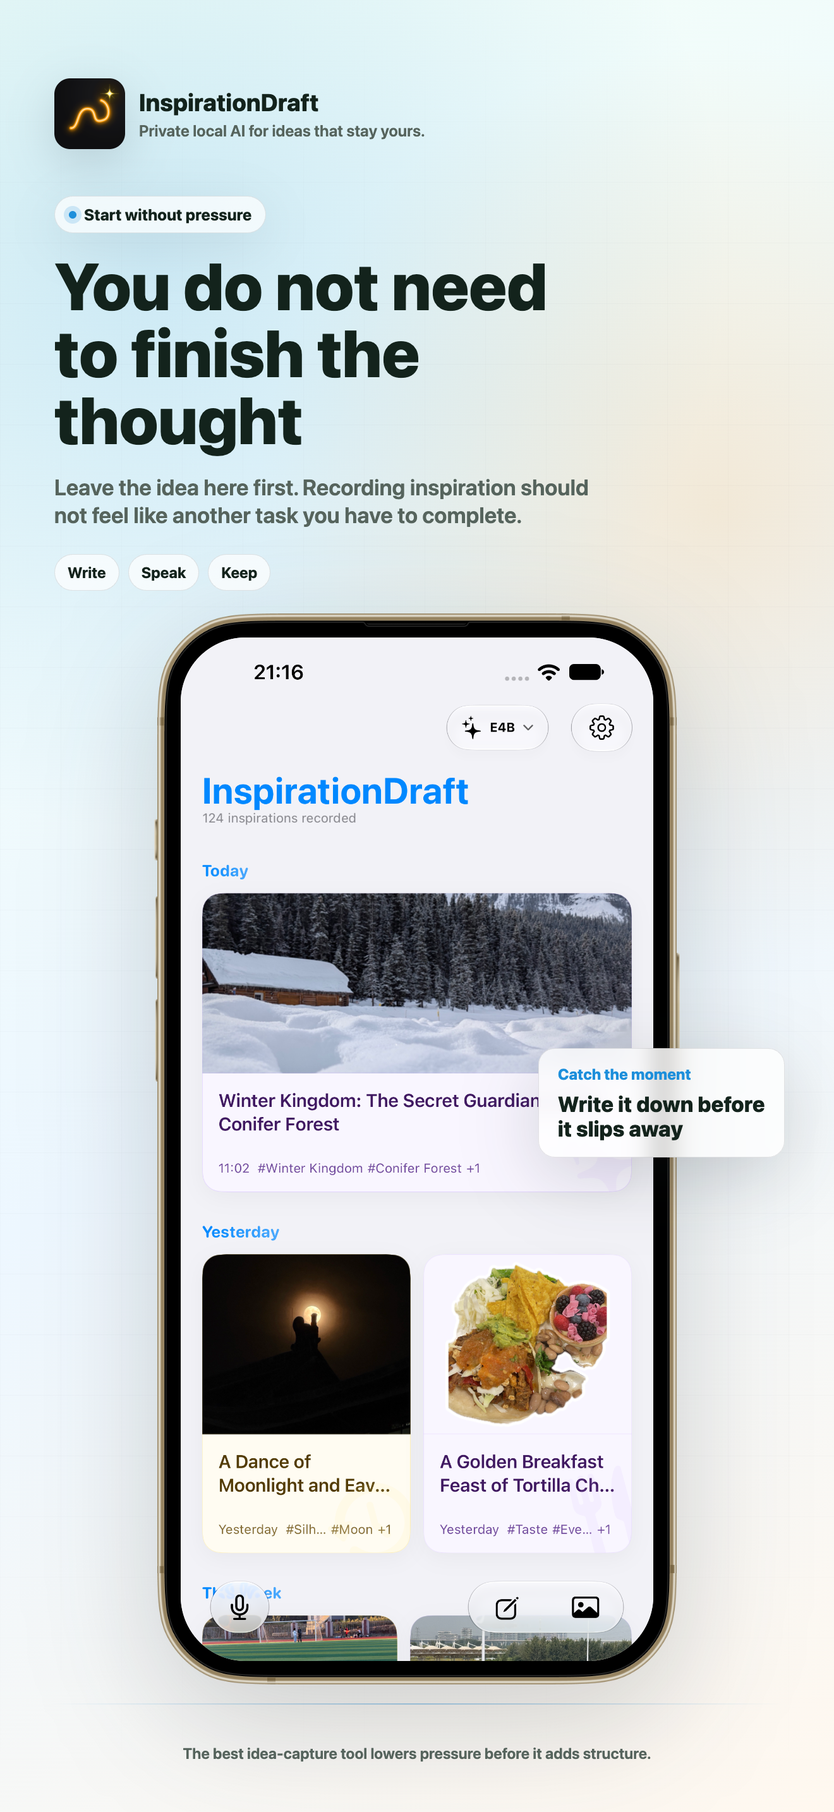
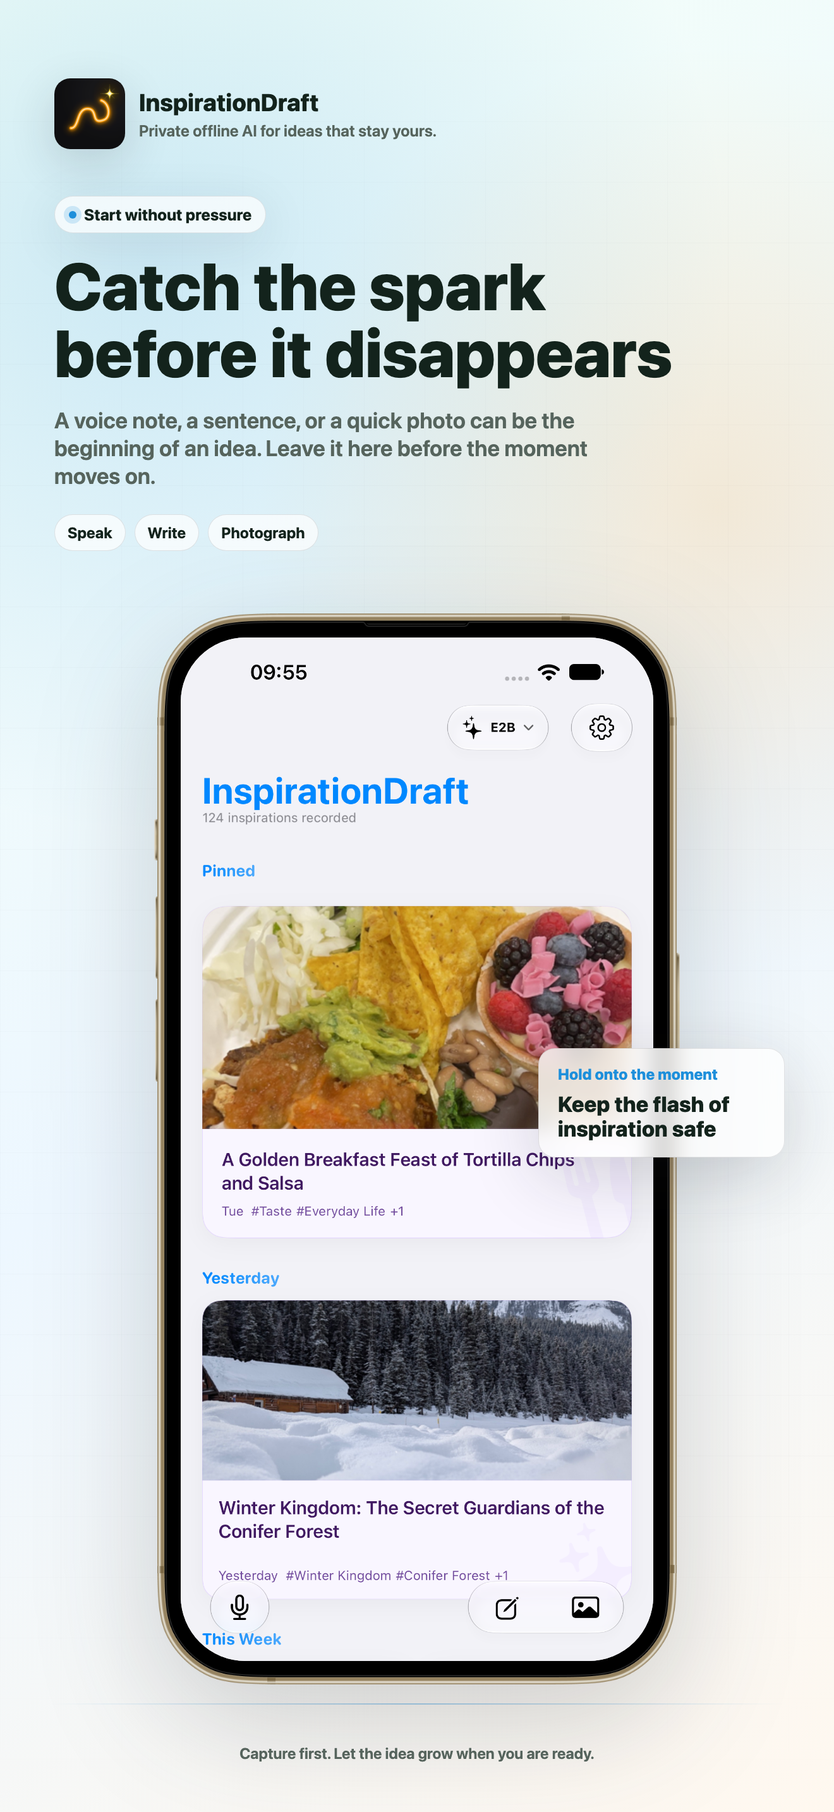
Refresh InspirationDraft showcase website

diff --git a/index.html b/index.html
@@ -7,18 +7,19 @@
   <script src="js/main.js" defer></script>
   <link rel="stylesheet" href="css/style.css">
   <style>
-    body { padding: 0; margin: 0; font-family: -apple-system, BlinkMacSystemFont, "Segoe UI", Roboto, Helvetica, Arial, sans-serif; background: #000; color: #fff; line-height: 1.6; }
+    *, *::before, *::after { box-sizing: border-box; }
+    body { padding: 0; margin: 0; width: 100%; overflow-x: hidden; font-family: -apple-system, BlinkMacSystemFont, "Segoe UI", Roboto, Helvetica, Arial, sans-serif; background: #000; color: #fff; line-height: 1.6; }
     .text-gradient { background: linear-gradient(90deg, #a8ff78, #78ffd6); -webkit-background-clip: text; -webkit-text-fill-color: transparent; }
-    nav { display: flex; align-items: center; gap: 0.75rem; padding: 1.25rem 2rem; border-bottom: 1px solid rgba(255,255,255,0.08); background: rgba(0,0,0,0.8); backdrop-filter: blur(10px); position: sticky; top: 0; z-index: 100; }
-    .container { max-width: 1000px; margin: 0 auto; padding: 4rem 2rem; }
+    nav { display: flex; align-items: center; gap: 0.75rem; width: 100%; padding: 1.25rem 2rem; border-bottom: 1px solid rgba(255,255,255,0.08); background: rgba(0,0,0,0.8); backdrop-filter: blur(10px); position: sticky; top: 0; z-index: 100; }
+    .container { width: 100%; max-width: 1000px; margin: 0 auto; padding: 4rem 2rem; }
     
     /* Hero */
     .hero { display: flex; align-items: center; gap: 4rem; margin-bottom: 6rem; }
-    .hero-text { flex: 1; }
+    .hero-text { flex: 1; min-width: 0; }
     .hero h1 { font-size: 3.5rem; margin-bottom: 1.5rem; line-height: 1.1; letter-spacing: -0.02em; }
     .hero p { font-size: 1.2rem; color: rgba(255,255,255,0.7); margin-bottom: 2rem; }
     
-    .hero-visual { flex: 1; display: flex; justify-content: center; }
+    .hero-visual { flex: 1; min-width: 0; display: flex; justify-content: center; }
     .screenshot-frame {
         width: min(100%, 320px);
         aspect-ratio: 1320 / 2868;
@@ -37,11 +38,11 @@
     /* Feature Rows */
     .feature-row { display: flex; align-items: center; gap: 4rem; margin-bottom: 8rem; }
     .feature-row:nth-child(even) { flex-direction: row-reverse; }
-    .feature-text { flex: 1; }
+    .feature-text { flex: 1; min-width: 0; }
     .feature-text h2 { font-size: 2rem; margin-bottom: 1rem; line-height: 1.25; }
     .feature-text p { font-size: 1.1rem; color: rgba(255,255,255,0.7); }
-    .feature-visual { flex: 1; display: flex; justify-content: center; }
-    .feature-visual img.screenshot { width: 100%; height: 100%; }
+    .feature-visual { flex: 1; min-width: 0; display: flex; justify-content: center; width: 100%; }
+    .feature-visual img.screenshot { width: 100%; max-width: 100%; height: 100%; }
 
     .methods-list { list-style: none; padding: 0; margin-top: 1.5rem; }
     .methods-list li { margin-bottom: 1rem; padding-left: 1.5rem; position: relative; color: rgba(255,255,255,0.8); }
@@ -55,7 +56,11 @@
     footer a:hover { text-decoration: underline; }
 
     @media (max-width: 768px) {
+        .container { padding: 3rem 1rem; }
         .hero, .feature-row, .feature-row:nth-child(even) { flex-direction: column; text-align: center; gap: 3rem; margin-bottom: 5rem; }
+        .hero, .feature-row { width: 100%; }
+        .hero-text, .feature-text, .hero-visual, .feature-visual { width: 100%; }
+        .screenshot-frame { width: min(100%, 320px); }
         .hero h1 { font-size: 2.5rem; }
         .methods-list li { text-align: left; }
     }
@@ -89,31 +94,39 @@
       </div>
     </section>
 
-    <!-- Feature 1: Capture and organize -->
+    <!-- Feature 1: Offline AI creative methods -->
     <section class="feature-row">
       <div class="feature-text">
-        <h2 data-i18n="feature1.title">Capture the thought<br>then make it useful</h2>
-        <p data-i18n="feature1.p1">Titles, tags, categories, and lightweight structure help you return later without turning capture into clerical work.</p>
-        <p data-i18n="feature1.p2">Organize an idea in the background, or turn it into one or more reminders when it is ready to become a next step.</p>
+        <h2 data-i18n="feature1.title">When a spark needs room<br>let offline AI open a door</h2>
+        <p data-i18n="feature1.p1">Five gentle ways to keep creating when the first thought is not finished. Offline AI offers a direction, not a replacement for your voice.</p>
+        <ul class="methods-list">
+          <li data-i18n="feature1.m1"><strong>Extend:</strong> Add texture, detail, or a possible continuation without forcing the idea to conclude.</li>
+          <li data-i18n="feature1.m2"><strong>Change angle:</strong> Look at the same spark from another person, time, scale, or point of view.</li>
+          <li data-i18n="feature1.m3"><strong>Make concrete:</strong> Move from atmosphere to specifics: a scene, an example, a constraint, or a testable detail.</li>
+          <li data-i18n="feature1.m4"><strong>Next step:</strong> Turn a vague impulse into one small action that gives the idea somewhere to go.</li>
+          <li data-i18n="feature1.m5"><strong>Ask back:</strong> Let a well-placed question reveal what the spark is really trying to become.</li>
+        </ul>
+        <p data-i18n="feature1.p2">The model helps you find a way forward while the spark, the choice, and the final direction remain yours.</p>
       </div>
       <div class="feature-visual">
         <div class="screenshot-frame">
-          <img class="screenshot fancy-screenshot" data-screenshot="2" src="appstore/inspirationdraft-fancy-screenshots/output/en/iphone-6.9-02.png" alt="InspirationDraft organization screenshot" loading="lazy">
+          <img class="screenshot fancy-screenshot" data-screenshot="2" src="appstore/inspirationdraft-fancy-screenshots/output/en/iphone-6.9-02.png" alt="InspirationDraft image and text editing screenshot" loading="lazy">
         </div>
       </div>
     </section>
 
-    <!-- Feature 2: Markdown Image Editing -->
+    <!-- Feature 2: Material menu actions -->
     <section class="feature-row">
       <div class="feature-text">
-        <h2 data-i18n="feature2.title">When you feel stuck<br>open a window</h2>
-        <p data-i18n="feature2.p1">Local AI can extend, question, reframe, and suggest the next step without taking over your writing.</p>
+        <h2 data-i18n="feature2.title">Let offline AI<br>understand the image</h2>
+        <p data-i18n="feature2.p1">Offline AI helps you notice what is in the image and find extra inspiration or new ways to express the thought. Your image stays on your device.</p>
         <ul class="methods-list">
-          <li data-i18n="feature2.m1"><strong>Extend:</strong> Keep the idea moving when it starts to stall.</li>
-          <li data-i18n="feature2.m2"><strong>Question:</strong> Ask for a sharper angle or a missing constraint.</li>
-          <li data-i18n="feature2.m3"><strong>Reframe:</strong> Try another perspective without losing the core thought.</li>
-          <li data-i18n="feature2.m4"><strong>Next step:</strong> Turn a vague idea into one concrete move.</li>
-          <li data-i18n="feature2.m5"><strong>Control:</strong> AI stays a quiet companion until you decide what to keep.</li>
+          <li data-i18n="feature2.m1"><strong>Get Image Content:</strong> Let offline AI describe what is in the image and open another way into the thought.</li>
+          <li data-i18n="feature2.m2"><strong>Insert into Document:</strong> Bring the useful context into the draft at the point where it matters.</li>
+          <li data-i18n="feature2.m3"><strong>Create Sticker:</strong> Use a derived form only when it helps the idea, without making it the point of the story.</li>
+          <li data-i18n="feature2.m4"><strong>Delete analysis results:</strong> Remove generated interpretation when it no longer belongs.</li>
+          <li data-i18n="feature2.m5"><strong>Remove Cover:</strong> Change the role of the material without deleting the attachment.</li>
+          <li data-i18n="feature2.m6"><strong>Delete attachment:</strong> Remove the material only when you decide it should leave the idea.</li>
         </ul>
       </div>
       <div class="feature-visual">
@@ -123,40 +136,54 @@
       </div>
     </section>
 
-    <!-- Feature 3: Rich Export -->
+    <!-- Feature 3: Offline AI rewrite -->
     <section class="feature-row">
       <div class="feature-text">
-        <h2 data-i18n="feature3.title">Take it anywhere<br>and stay private</h2>
-        <p data-i18n="feature3.p1">After the model is downloaded, drafts and local AI inference stay on your iPhone instead of being handed to a cloud model.</p>
-        <p data-i18n="feature3.p2">No signal required. Privacy feels real when the work can continue offline.</p>
+        <h2 data-i18n="feature3.title">Let offline AI explore<br>without taking over</h2>
+        <p data-i18n="feature3.p1">Try different rewrite directions and keep the candidate that fits. Text can change while the image blocks and the original thought stay protected.</p>
+        <p data-i18n="feature3.p2">Offline AI opens possibilities; the final wording and direction remain yours.</p>
       </div>
       <div class="feature-visual">
         <div class="screenshot-frame">
-          <img class="screenshot fancy-screenshot" data-screenshot="4" src="appstore/inspirationdraft-fancy-screenshots/output/en/iphone-6.9-04.png" alt="InspirationDraft local AI screenshot" loading="lazy">
+          <img class="screenshot fancy-screenshot" data-screenshot="4" src="appstore/inspirationdraft-fancy-screenshots/output/en/iphone-6.9-04.png" alt="InspirationDraft smart rewrite screenshot" loading="lazy">
         </div>
       </div>
     </section>
 
-    <!-- Feature 4: Private Local AI -->
+    <!-- Feature 4: Settings and control -->
     <section class="feature-row">
       <div class="feature-text">
-        <h2 data-i18n="feature4.title">Writing, work, life,<br>stray ideas too</h2>
-        <p data-i18n="feature4.p1"><strong>One private workspace:</strong> Keep articles, product notes, cooking sparks, plans, and unfinished thoughts together.</p>
-        <p data-i18n="feature4.p2"><strong>Your voice stays yours:</strong> The final direction and wording always remain in your hands.</p>
+        <h2 data-i18n="feature4.title">You decide how far<br>offline AI goes</h2>
+        <p data-i18n="feature4.p1">Choose whether offline AI only suggests a title, helps organize tags and scenes, or steps in with writing assistance. It can help manage a growing collection of sparks without taking over.</p>
+        <p data-i18n="feature4.p2">You set the boundary: capture only, organize, or help develop the idea.</p>
       </div>
       <div class="feature-visual">
         <div class="screenshot-frame">
-          <img class="screenshot fancy-screenshot" data-screenshot="5" src="appstore/inspirationdraft-fancy-screenshots/output/en/iphone-6.9-05.png" alt="InspirationDraft ownership screenshot" loading="lazy">
+          <img class="screenshot fancy-screenshot" data-screenshot="5" src="appstore/inspirationdraft-fancy-screenshots/output/en/iphone-6.9-05.png" alt="InspirationDraft settings and offline AI screenshot" loading="lazy">
+        </div>
+      </div>
+    </section>
+
+    <!-- Feature 5: Private offline AI -->
+    <section class="feature-row">
+      <div class="feature-text">
+        <h2 data-i18n="feature5.title">Keep creating<br>and keep it private</h2>
+        <p data-i18n="feature5.p1"><strong>Fully local:</strong> Suggestions and rewrites run on your iPhone instead of sending your unfinished ideas to a server.</p>
+        <p data-i18n="feature5.p2">Your voice, your images, and the sparks that are still becoming ideas stay under your control.</p>
+      </div>
+      <div class="feature-visual">
+        <div class="screenshot-frame">
+          <img class="screenshot fancy-screenshot" data-screenshot="6" src="appstore/inspirationdraft-fancy-screenshots/output/en/iphone-6.9-06.png" alt="InspirationDraft private offline AI screenshot" loading="lazy">
         </div>
       </div>
     </section>
 
     <!-- Privacy Section -->
     <section class="privacy-section">
-      <h2 class="text-gradient" style="margin-bottom: 1rem; display:inline-block;" data-i18n="privacy.title1">Private local AI</h2>
+      <h2 class="text-gradient" style="margin-bottom: 1rem; display:inline-block;" data-i18n="privacy.title1">Private offline AI</h2>
       <h3 data-i18n="privacy.title2">A quiet creative companion</h3>
       <p data-i18n="privacy.p1" style="color: rgba(255,255,255,0.7); max-width: 650px; margin: 1.5rem auto 0; font-size: 1.1rem; line-height: 1.8;">
-        InspirationDraft is designed for people who want help without surrendering authorship. <strong>After you download the local model, suggestions and rewrites run on your device.</strong> No account, no tracking, no server-side draft processing.
+        InspirationDraft is designed for people who want help without surrendering authorship. <strong>Suggestions and rewrites run on your device.</strong> No account, no tracking, no server-side draft processing.
       </p>
     </section>
 

diff --git a/js/main.js b/js/main.js
@@ -6,38 +6,49 @@ const translations = {
     },
     hero: {
       badge: "Available on iOS",
-      title: "You do not need<br>to finish the thought",
-      p1: "Leave the idea here first. Recording inspiration should not feel like another task you have to complete.",
-      p2: "Start with less pressure, then let structure arrive when it helps."
+      title: "Catch the spark<br>before it disappears",
+      p1: "A voice note, a sentence, or a quick photo can be the beginning of an idea. Leave it here before the moment moves on.",
+      p2: "InspirationDraft helps keep that flash of inspiration safe, so it can grow when you are ready."
     },
     feature1: {
-      title: "Keep the image<br>then make it yours",
-      p1: "Preview, rotate, restore, and turn a useful subject into a sticker. Original images, derivatives, and AI analysis stay linked to the draft.",
-      p2: "The material stays close to the thought instead of becoming another file to lose."
+      title: "When a spark needs room<br>let offline AI open a door",
+      p1: "Five gentle ways to keep creating when the first thought is not finished. Offline AI offers a direction, not a replacement for your voice.",
+      m1: "<strong>Extend:</strong> Add texture, detail, or a possible continuation without forcing the idea to conclude.",
+      m2: "<strong>Change angle:</strong> Look at the same spark from another person, time, scale, or point of view.",
+      m3: "<strong>Make concrete:</strong> Move from atmosphere to specifics: a scene, an example, a constraint, or a testable detail.",
+      m4: "<strong>Next step:</strong> Turn a vague impulse into one small action that gives the idea somewhere to go.",
+      m5: "<strong>Ask back:</strong> Let a well-placed question reveal what the spark is really trying to become.",
+      p2: "The model helps you find a way forward while the spark, the choice, and the final direction remain yours."
     },
     feature2: {
-      title: "Text and images<br>in the same flow",
-      p1: "Shape a Markdown draft with headings, lists, links, and inline images. Rewrite the words while the image blocks stay protected.",
-      m1: "<strong>Markdown:</strong> Keep the persisted draft source clear and portable.",
-      m2: "<strong>Images:</strong> Place original or derived material where the idea needs it.",
-      m3: "<strong>Rewrite:</strong> Improve the words without losing image structure.",
-      m4: "<strong>Undo:</strong> Keep editing changes reversible while the draft evolves.",
-      m5: "<strong>Control:</strong> Formatting helps the idea without taking it away from you."
+      title: "Let offline AI<br>understand the image",
+      p1: "Offline AI helps you notice what is in the image and find extra inspiration or new ways to express the thought. Your image stays on your device.",
+      m1: "<strong>Get Image Content:</strong> Let offline AI describe what is in the image and open another way into the thought.",
+      m2: "<strong>Insert into Document:</strong> Bring the useful context into the draft at the point where it matters.",
+      m3: "<strong>Create Sticker:</strong> Use a derived form only when it helps the idea, without making it the point of the story.",
+      m4: "<strong>Delete analysis results:</strong> Remove generated interpretation when it no longer belongs.",
+      m5: "<strong>Remove Cover:</strong> Change the role of the material without deleting the attachment.",
+      m6: "<strong>Delete attachment:</strong> Remove the material only when you decide it should leave the idea."
     },
     feature3: {
-      title: "From rough thought<br>to readable piece",
-      p1: "Export image-rich drafts as polished PDF or MHTML documents with consistent branding, dates, rounded images, and sticker glow.",
-      p2: "Sharing should carry the shape of the thought, not just a block of raw text."
+      title: "Give the idea room<br>to become something more",
+      p1: "When a spark is ready, try different rewrite directions and keep the one that fits. Offline AI helps the thought unfold without replacing its source.",
+      p2: "The flash is yours. The direction stays yours too."
     },
     feature4: {
-      title: "Take it anywhere<br>and stay private",
-      p1: "<strong>Fully local:</strong> After the model is downloaded, drafts and local AI processing stay on your iPhone.",
-      p2: "<strong>Your voice stays yours:</strong> Your images, ideas, and final decisions remain under your control."
+      title: "You decide how far<br>offline AI goes",
+      p1: "Choose whether offline AI only suggests a title, helps organize tags and scenes, or steps in with writing assistance. It can help manage a growing collection of sparks without taking over.",
+      p2: "You set the boundary: capture only, organize, or help develop the idea."
+    },
+    feature5: {
+      title: "Keep creating<br>and keep it private",
+      p1: "<strong>Fully local:</strong> Suggestions and rewrites run on your iPhone instead of sending your unfinished ideas to a server.",
+      p2: "Your voice, your images, and the sparks that are still becoming ideas stay under your control."
     },
     privacy: {
-      title1: "Private local AI",
+      title1: "Private offline AI",
       title2: "A quiet creative companion",
-      p1: "InspirationDraft is designed for people who want help without surrendering authorship. <strong>After you download the local model, suggestions and rewrites run on your device.</strong> No account, no tracking, no server-side draft processing."
+      p1: "InspirationDraft is designed for people who want help without surrendering authorship. <strong>Suggestions and rewrites run on your device.</strong> No account, no tracking, no server-side draft processing."
     },
     footer: {
       support: "Support",
@@ -51,38 +62,49 @@ const translations = {
     },
     hero: {
       badge: "iOS 现已推出",
-      title: "不必想完整<br>先把它留下",
-      p1: "先把这一刻记住。记录灵感，不该变成另一项需要完成的任务。",
-      p2: "先减轻压力，再让结构慢慢跟上。"
+      title: "先留住灵感<br>别让它一闪而过",
+      p1: "一句语音、一段文字，或一张随手拍下的照片，都可以成为一个想法的起点。先把它留下，再继续生活。",
+      p2: "灵感树洞帮你留住这一刻的火花，等你准备好时，再让它慢慢长成想法。"
     },
     feature1: {
-      title: "先把图片留下<br>再慢慢变成你的",
-      p1: "预览、旋转、还原，并把主体生成贴纸。原图、派生图和 AI 分析结果始终和草稿保持关联。",
-      p2: "素材应该靠近想法，而不是变成另一堆容易丢失的文件。"
+      title: "当灵感需要一点空间<br>让离线 AI 打开一扇门",
+      p1: "当第一个念头还没有完成，可以用五种温和的方式继续创作。离线 AI 提供方向，但不会替你写出答案。",
+      m1: "<strong>延展：</strong>补充质感、细节或可能的后续，不急着让想法结束。",
+      m2: "<strong>换角度：</strong>从另一个人物、时间、尺度或立场重新看同一束灵感。",
+      m3: "<strong>具体化：</strong>把氛围推进到具体内容：一个场景、例子、限制或可以验证的细节。",
+      m4: "<strong>下一步：</strong>把模糊的冲动变成一个小行动，让想法真正有地方可去。",
+      m5: "<strong>反问：</strong>用一个恰到好处的问题，发现这束灵感真正想长成什么。",
+      p2: "模型帮助你找到继续向前的路径，而灵感、选择和最终方向始终属于你。"
     },
     feature2: {
-      title: "文字和图片<br>放在同一条创作流里",
-      p1: "用标题、列表、链接和图片块整理 Markdown 草稿；全文改写时保护图片位置，不破坏原来的结构。",
-      m1: "<strong>Markdown：</strong>让正文真源保持清楚、可携带。",
-      m2: "<strong>图片：</strong>把原图或派生素材放在想法真正需要的位置。",
-      m3: "<strong>改写：</strong>优化文字，但不丢失图片结构。",
-      m4: "<strong>撤销：</strong>让编辑变化保持可逆。",
-      m5: "<strong>掌控：</strong>格式让想法更清楚，同时把决定权留在你手里。"
+      title: "让离线 AI<br>理解图片内容",
+      p1: "离线 AI 帮你看见图片里的内容，获得额外的灵感和表达方式。图片留在设备上，不会被上传。",
+      m1: "<strong>获取图片内容：</strong>让离线 AI 描述图片里的内容，打开进入想法的另一条路径。",
+      m2: "<strong>插入到文档：</strong>把真正有用的上下文带到草稿需要它的位置。",
+      m3: "<strong>生成贴纸：</strong>只有当派生形态有助于想法时才使用，不让它成为故事主角。",
+      m4: "<strong>删除分析结果：</strong>不需要时移除生成的解释。",
+      m5: "<strong>取消封面：</strong>改变素材在想法中的角色，但不删除附件。",
+      m6: "<strong>删除附件：</strong>只有当你决定它不再属于这个想法时，才移除素材。"
     },
     feature3: {
-      title: "从粗糙念头<br>到可以阅读的作品",
-      p1: "把图文草稿导出为带有一致 Branding、日期、圆角图片和 Sticker Glow 的 PDF 或 MHTML。",
-      p2: "分享应该带走想法的形状，而不只是导出一段原始文字。"
+      title: "给想法一点空间<br>让它继续生长",
+      p1: "当一闪而过的灵感准备好了，可以尝试不同的改写方向，只保留真正适合你的版本。离线 AI 帮助展开想法，但不会替代它的起点。",
+      p2: "火花来自你，接下来往哪里走也由你决定。"
     },
     feature4: {
-      title: "走到世界尽头<br>灵感依然在线",
-      p1: "<strong>完全本地：</strong>下载模型后，文字、图片上下文和端侧 AI 推理都留在 iPhone 上。",
-      p2: "<strong>你的声音还在：</strong>图片、想法和最终判断始终由你掌控。"
+      title: "你决定离线 AI<br>帮到哪一步",
+      p1: "你可以决定离线 AI 只生成标题，还是进一步管理标签、识别场景、给出建议，并在需要时帮助整理和展开灵感。",
+      p2: "从记录、整理到继续创作，边界由你设定。"
+    },
+    feature5: {
+      title: "继续创作<br>也继续保持私密",
+      p1: "<strong>完全本地：</strong>建议和改写都在 iPhone 上完成，不把尚未成形的想法交给服务器。",
+      p2: "你的声音、图片，以及仍在生长中的灵感火花，始终由你掌控。"
     },
     privacy: {
       title1: "完全本地，真正私密",
       title2: "沉默的创作伙伴",
-      p1: "灵感树洞是给那些想要帮助、又不想交出作者感的人准备的。<strong>下载本地模型后，建议和改写都在设备端完成。</strong> 不用注册、没有追踪、也没有服务端内容处理。"
+      p1: "灵感树洞是给那些想要帮助、又不想交出作者感的人准备的。<strong>建议和改写都在设备端完成。</strong> 不用注册、没有追踪、也没有服务端内容处理。"
     },
     footer: {
       support: "应用支持",
